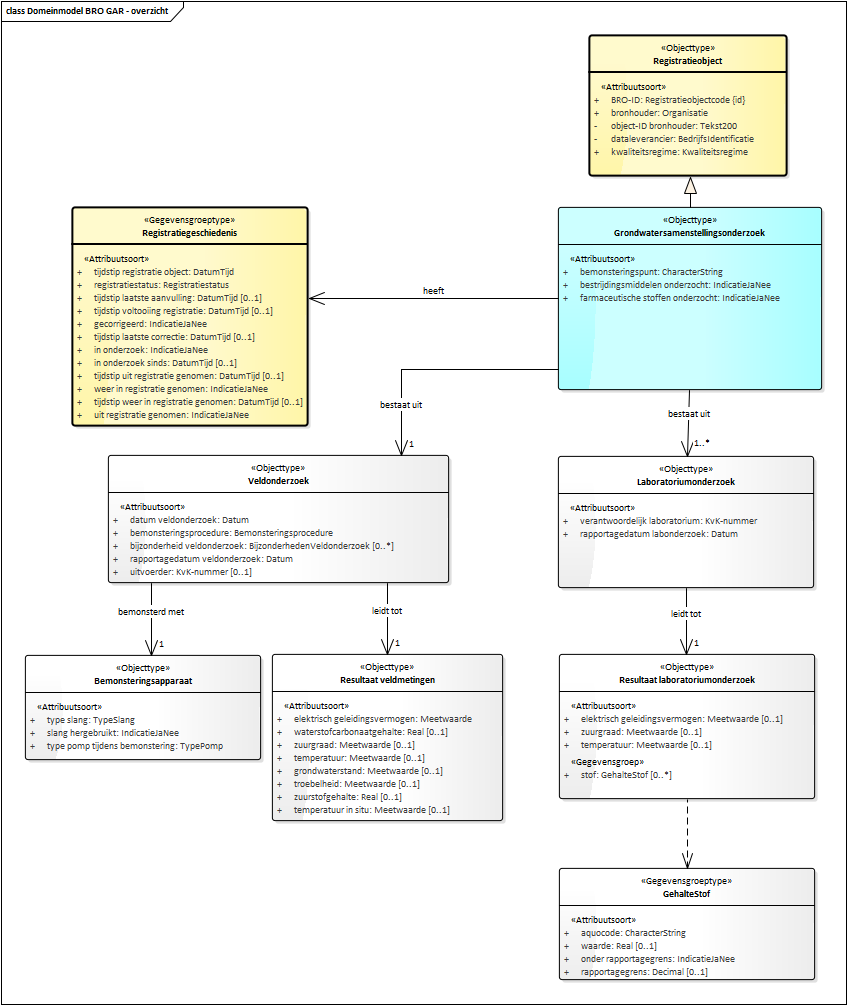
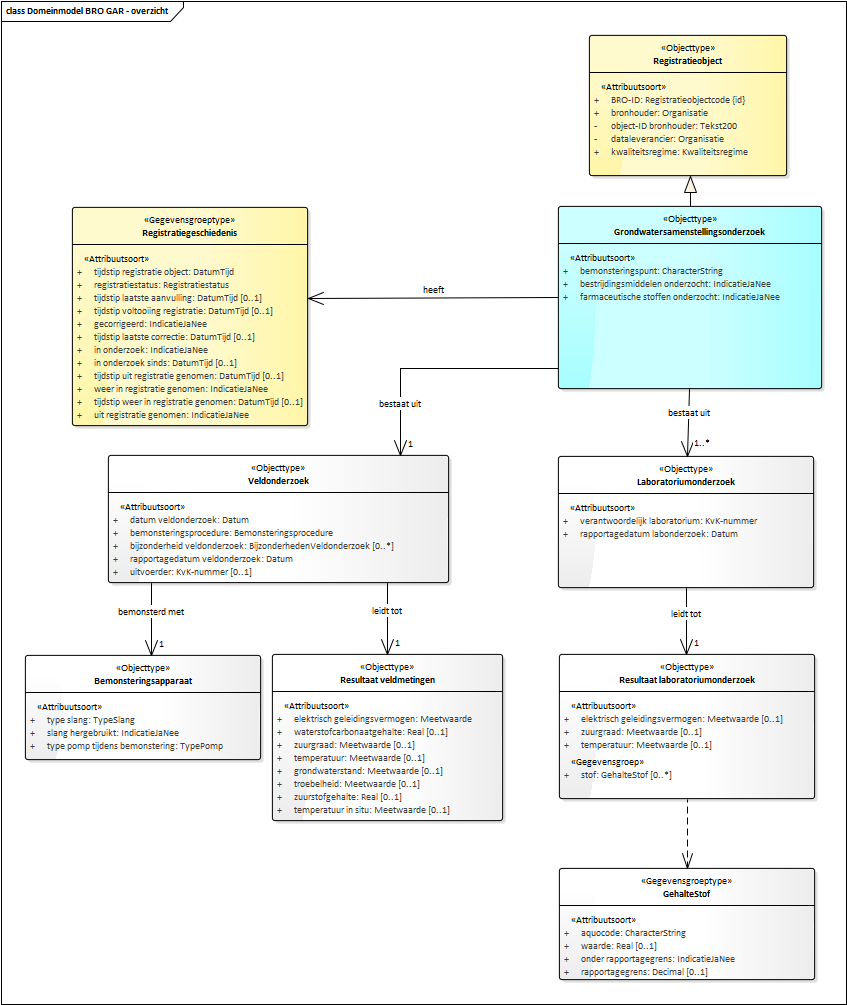
Conceptualmodel-GrondwatersamenstellingsonderzoekGAR-0.1-0-20180315-20181009-165106

diff --git a/data/GAR-cat.html b/data/GAR-cat.html
@@ -1,10 +1,10 @@
 <h2>Catalogus</h2>
 <p class="note" title="Over deze catalogus">
    Deze catalogus is automatisch samengesteld op basis van het UML model 
-   "Grondwatersamenstellingsonderzoek (GAR)" door Imvertor 1.47.2 op October 9, 2018 at 14:39:04.
+   "Grondwatersamenstellingsonderzoek (GAR)" door Imvertor 1.47.2 op October 9, 2018 at 14:51:04.
    <br>
    Wanneer je technische fouten of onvolkomenheden aantreft, geef dit dan door aan <i></i> en geef de code 
-   <i>"Conceptualmodel-GrondwatersamenstellingsonderzoekGAR-0.1-0-20180315-20181009-163906"</i> door. 
+   <i>"Conceptualmodel-GrondwatersamenstellingsonderzoekGAR-0.1-0-20180315-20181009-165106"</i> door. 
    
 </p><a class="anchor" name="global_package_Model"></a><section id="global_package_Model">
    <h3>Domein Model</h3>
@@ -15,7 +15,7 @@
          <area shape="rect" coords="558,588,814,456" alt="" href="#graph_EAID_438F8C26_FF54_4aff_AD7F_C6521BD69D2D">
          <area shape="rect" coords="272,821,503,654" alt="" href="#graph_EAID_842A7CA1_C8F1_4165_A1C4_90E8FA408109">
          <area shape="rect" coords="108,583,449,455" alt="" href="#graph_EAID_2F5089D1_4361_456b_8D24_ED2114330AAD">
-         <area shape="rect" coords="558,390,822,207" alt="" href="#graph_EAID_BAB5C8A8_2997_4fbe_BE80_A531990FF2FE"></map><p><b>Domeinmodel BRO GAR - overzicht</b></p>
+         <area shape="rect" coords="558,389,822,206" alt="" href="#graph_EAID_BAB5C8A8_2997_4fbe_BE80_A531990FF2FE"></map><p><b>Domeinmodel BRO GAR - overzicht</b></p>
    </div>
    <div class="imageinfo overview"><img src="data/Images/EAID_0553A643_1D42_425b_A4A0_47AD9DFE4CE7.png" usemap="#imagemap-EAID_0553A643_1D42_425b_A4A0_47AD9DFE4CE7"><map name="imagemap-EAID_0553A643_1D42_425b_A4A0_47AD9DFE4CE7">
          <area shape="rect" coords="451,257,541,172" alt="" href="#graph_EAID_104D1298_880E_4ae4_AB27_E1DF1AD62CDB">
@@ -3369,7 +3369,7 @@
                      heeft aangeleverd, als onderneming in het Handelsregister heeft.
                   </td>
                   <td>
-                     <a class="link" href="#global_class_Brocommon_BedrijfsIdentificatie">BedrijfsIdentificatie</a>
+                     <a class="link" href="#global_class_Brocommon_Organisatie">Organisatie</a>
                      
                   </td>
                   <td>1</td>
@@ -3559,61 +3559,6 @@
    </section>
    <section id="">
       <h4>Gestruktureerde datatypen </h4>
-      <a class="anchor" name="graph_EAID_8E721D2D_DB67_4066_B3B4_58DB5B6DC695"></a><a class="anchor" name="global_class_Brocommon_BedrijfsIdentificatie"></a><section id="global_class_Brocommon_BedrijfsIdentificatie">
-         <h5>Gestructureerd datatype BedrijfsIdentificatie</h5>
-         
-         <table>
-            <colgroup width="30%"></colgroup>
-            <colgroup width="70%"></colgroup>
-            <tbody>
-               <tr>
-                  <th>Naam</th>
-                  <td>BedrijfsIdentificatie</td>
-               </tr>
-               <tr>
-                  <th>Herkomst</th>
-                  <td>BRO</td>
-               </tr>
-               <tr>
-                  <th>Definitie</th>
-                  <td>TODO</td>
-               </tr>
-            </tbody>
-         </table>
-         
-         <section id="">
-            <h6>Overzicht data elementen </h6>
-            
-            <table>
-               <colgroup width="30%"></colgroup>
-               <colgroup width="50%"></colgroup>
-               <colgroup width="10%"></colgroup>
-               <colgroup width="10%"></colgroup>
-               <tbody>
-                  <tr>
-                     <th>Data element</th>
-                     <th>Definitie</th>
-                     <th>Formaat</th>
-                     <th>Card</th>
-                  </tr>
-                  <tr>
-                     <td>
-                        <a class="link" href="#detail_attribute_Brocommon_BedrijfsIdentificatie_waarde">waarde</a>
-                        
-                     </td>
-                     <td></td>
-                     <td>
-                        Integer
-                        
-                     </td>
-                     <td>1</td>
-                  </tr>
-               </tbody>
-            </table>
-            
-         </section>
-         
-      </section>
       <a class="anchor" name="graph_EAID_900A343D_8B62_4e4f_8841_42B04EC5474F"></a><a class="anchor" name="global_class_Brocommon_Duur2"></a><section id="global_class_Brocommon_Duur2">
          <h5>Gestructureerd datatype Duur2</h5>
          
@@ -4383,7 +4328,7 @@
                   </tr>
                   <tr>
                      <th>Formaat</th>
-                     <td>BedrijfsIdentificatie</td>
+                     <td>Organisatie</td>
                   </tr>
                   <tr>
                      <th>Indicatie afleidbaar</th>
@@ -4587,36 +4532,6 @@
       </section>
       
       
-      <a class="anchor" name="detail_class_Brocommon_BedrijfsIdentificatie"></a><section id="detail_class_Brocommon_BedrijfsIdentificatie">
-         <h6>Gestructureerd datatype BedrijfsIdentificatie</h6>
-         <a class="anchor" name="detail_attribute_Brocommon_BedrijfsIdentificatie_waarde"></a><section id="detail_attribute_Brocommon_BedrijfsIdentificatie_waarde"><strong>Data element details <a href="#global_class_Brocommon_BedrijfsIdentificatie">BedrijfsIdentificatie</a> waarde</strong>
-            
-            <table>
-               <colgroup width="30%"></colgroup>
-               <colgroup width="70%"></colgroup>
-               <tbody>
-                  <tr>
-                     <th>Naam</th>
-                     <td>waarde</td>
-                  </tr>
-                  <tr>
-                     <th>Herkomst</th>
-                     <td>BRO</td>
-                  </tr>
-                  <tr>
-                     <th>Indicatie kardinaliteit</th>
-                     <td>1</td>
-                  </tr>
-                  <tr>
-                     <th>Formaat</th>
-                     <td>Integer</td>
-                  </tr>
-               </tbody>
-            </table>
-            
-         </section>
-         
-      </section>
       <a class="anchor" name="detail_class_Brocommon_Duur2"></a><section id="detail_class_Brocommon_Duur2">
          <h6>Gestructureerd datatype Duur2</h6>
          <a class="anchor" name="detail_attribute_Brocommon_Duur2_waarde"></a><section id="detail_attribute_Brocommon_Duur2_waarde"><strong>Data element details <a href="#global_class_Brocommon_Duur2">Duur2</a> waarde</strong>
